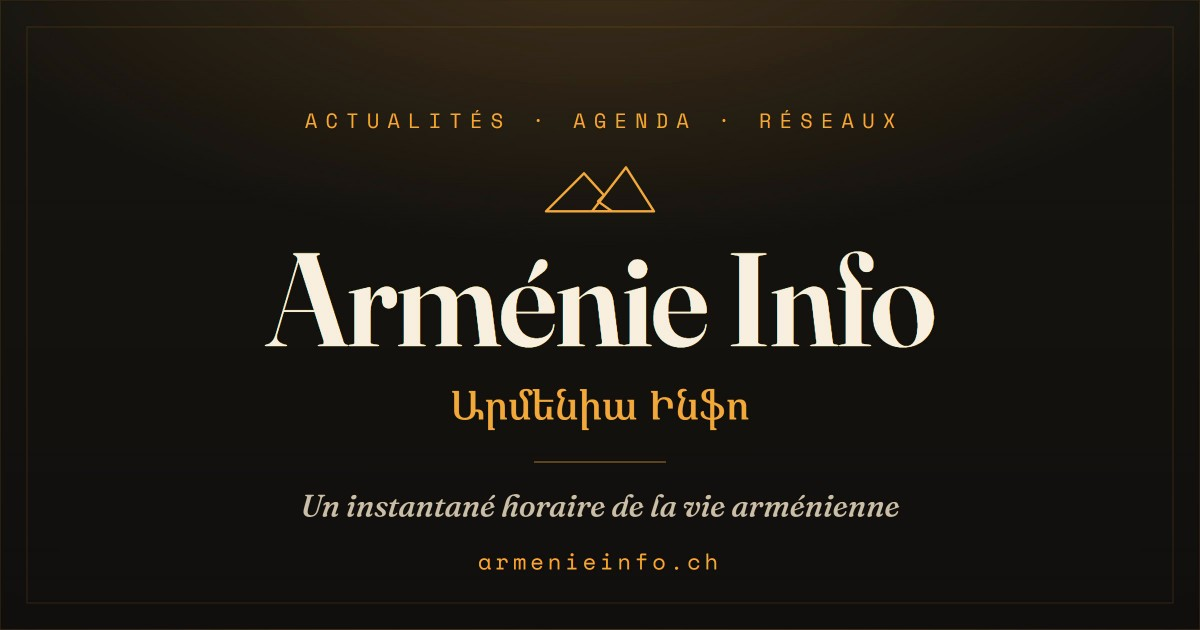
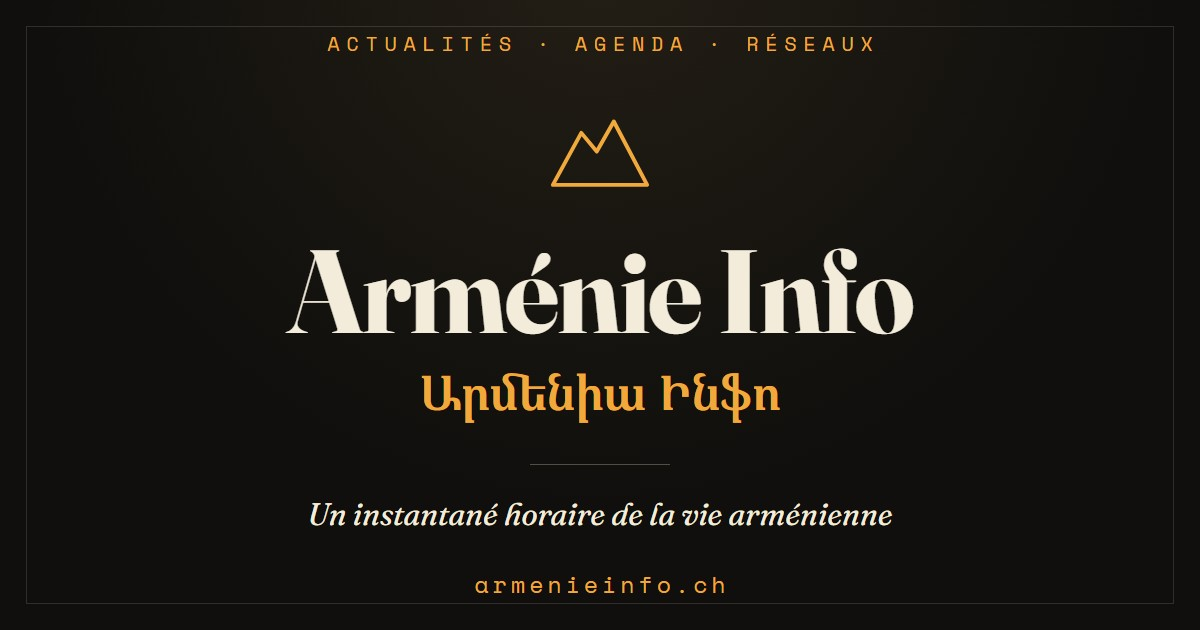
og: les deux cartes de partage suivent le miroir de l'Ararat
Demande explicite, en connaissance du cout : l'URL d'une carte reste en cache
plusieurs jours chez Facebook et WhatsApp, et son nom de fichier ne change pas,
donc le nouvel apercu ne remplace pas l'ancien tout de suite.

Le .org sort identique a l'ancienne, au miroir pres — c'etait exactement
l'effet voulu, et il naissait deja de ce script.

LE .CH, LUI, N'EN NAISSAIT PAS, et le piege s'est referme aussitot. Sa carte
etait anterieure a og-image.mjs et portait, sous le titre latin, la marque en
ECRITURE ARMENIENNE — « Արմենիա Ինֆո ». Le gabarit ne savait pas la rendre : la
premiere regeneration l'a donc EFFACEE. Un JPEG parfaitement valide, 1200x630,
sRGB, sans profil ICC, 48 ko — tous les controles au vert, une ligne en moins.
Rien dans une mesure de dimensions ou de poids ne voit disparaitre du texte.
C'est la comparaison avec l'ancienne image, ouverte a cote, qui l'a montre.

D'ou `subbrand` dans CARDS, et trois choses avec :
- Noto Serif Armenian ajoutee au lien Google Fonts. Fraunces ne porte AUCUN
  glyphe armenien ; sans elle la ligne serait tombee en police de secours, et
  comme le script attend document.fonts.ready, la capture serait partie quand
  meme, en Times, sans erreur.
- Pas d'italique : Noto Serif Armenian n'en embarque pas, le navigateur en
  synthetiserait un penche mecanique, et l'armenien n'a pas d'italique de
  tradition. Meme regle que le bloc html:lang(hy) de global.css.
- `subbrand: null` pour le .org, explicitement : sa carte n'en a jamais porte
[…]

diff --git a/CLAUDE.md b/CLAUDE.md
@@ -936,10 +936,14 @@ de production servent toujours depuis la racine de leur domaine.
   l'image entière** suffit pour les favicons matriciels — ce qui préserve
   couleurs et anticrénelage, là où un nouveau rendu les changerait.
 
-  Deux fichiers gardent volontairement l'ancien sens : `public/og-image.jpg` et
-  `og-image-org.jpg`. Leurs URL sont partagées et en cache chez Facebook et
-  WhatsApp, et `npm run og-image` ne doit pas être relancé sur `ch` (voir plus
-  haut). Ils se corrigeront le jour où une nouvelle carte sera cuite.
+  Les deux cartes de partage ont suivi le 1er août 2026, et **c'est la
+  première fois que le `.ch` sort de `og-image.mjs`** — sa carte lui était
+  antérieure. Le piège s'est refermé aussitôt : le gabarit ne savait pas rendre
+  la marque en écriture arménienne que l'ancienne carte portait sous le titre
+  latin, donc la première régénération l'a **effacée en silence**. Un JPEG
+  valide, 1200×630, sans ICC, sous les 600 ko — tous les contrôles au vert, une
+  ligne en moins. D'où `subbrand` dans `CARDS`. **Avant de régénérer une carte,
+  ouvrez l'ancienne à côté** : ce script ne rend que ce qu'on lui a appris.
 - **Armenpress peut se périmer en silence.** Si une rubrique échoue, le module
   la renvoie vide et `backfillSections` restitue les articles du
   snapshot précédent — indéfiniment. Un blocage durable depuis la CI ferait donc
